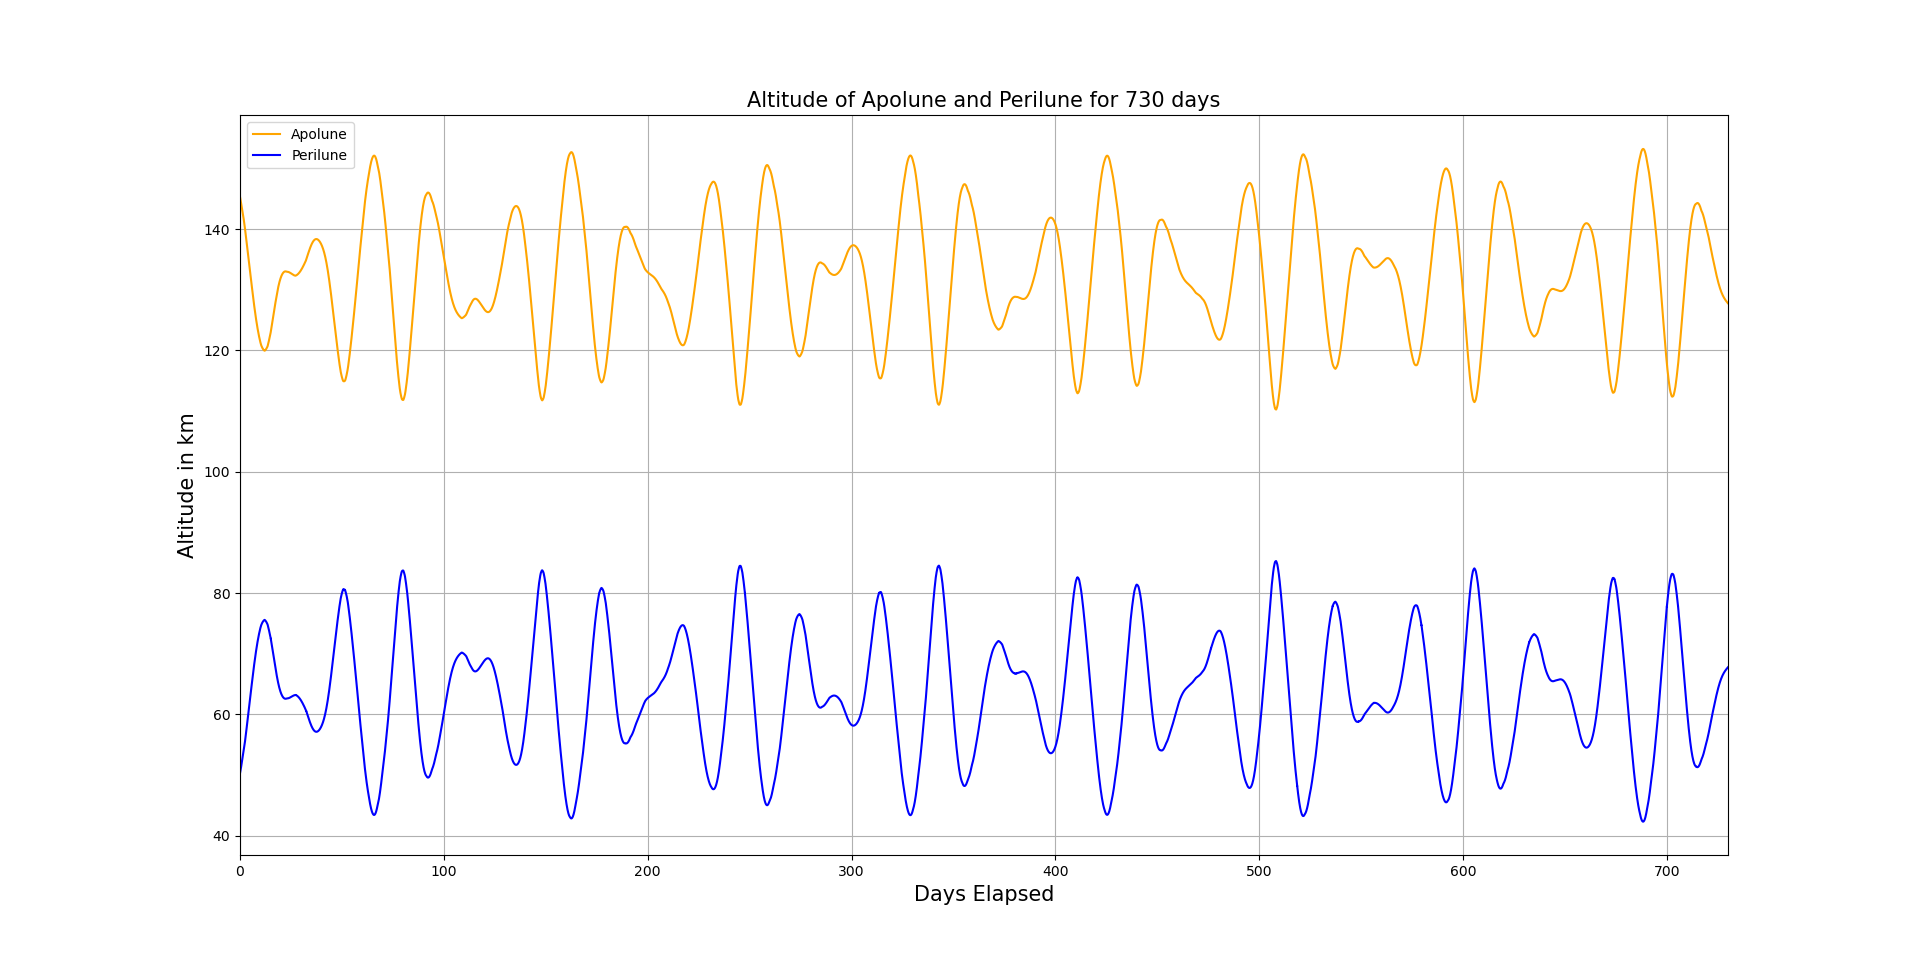
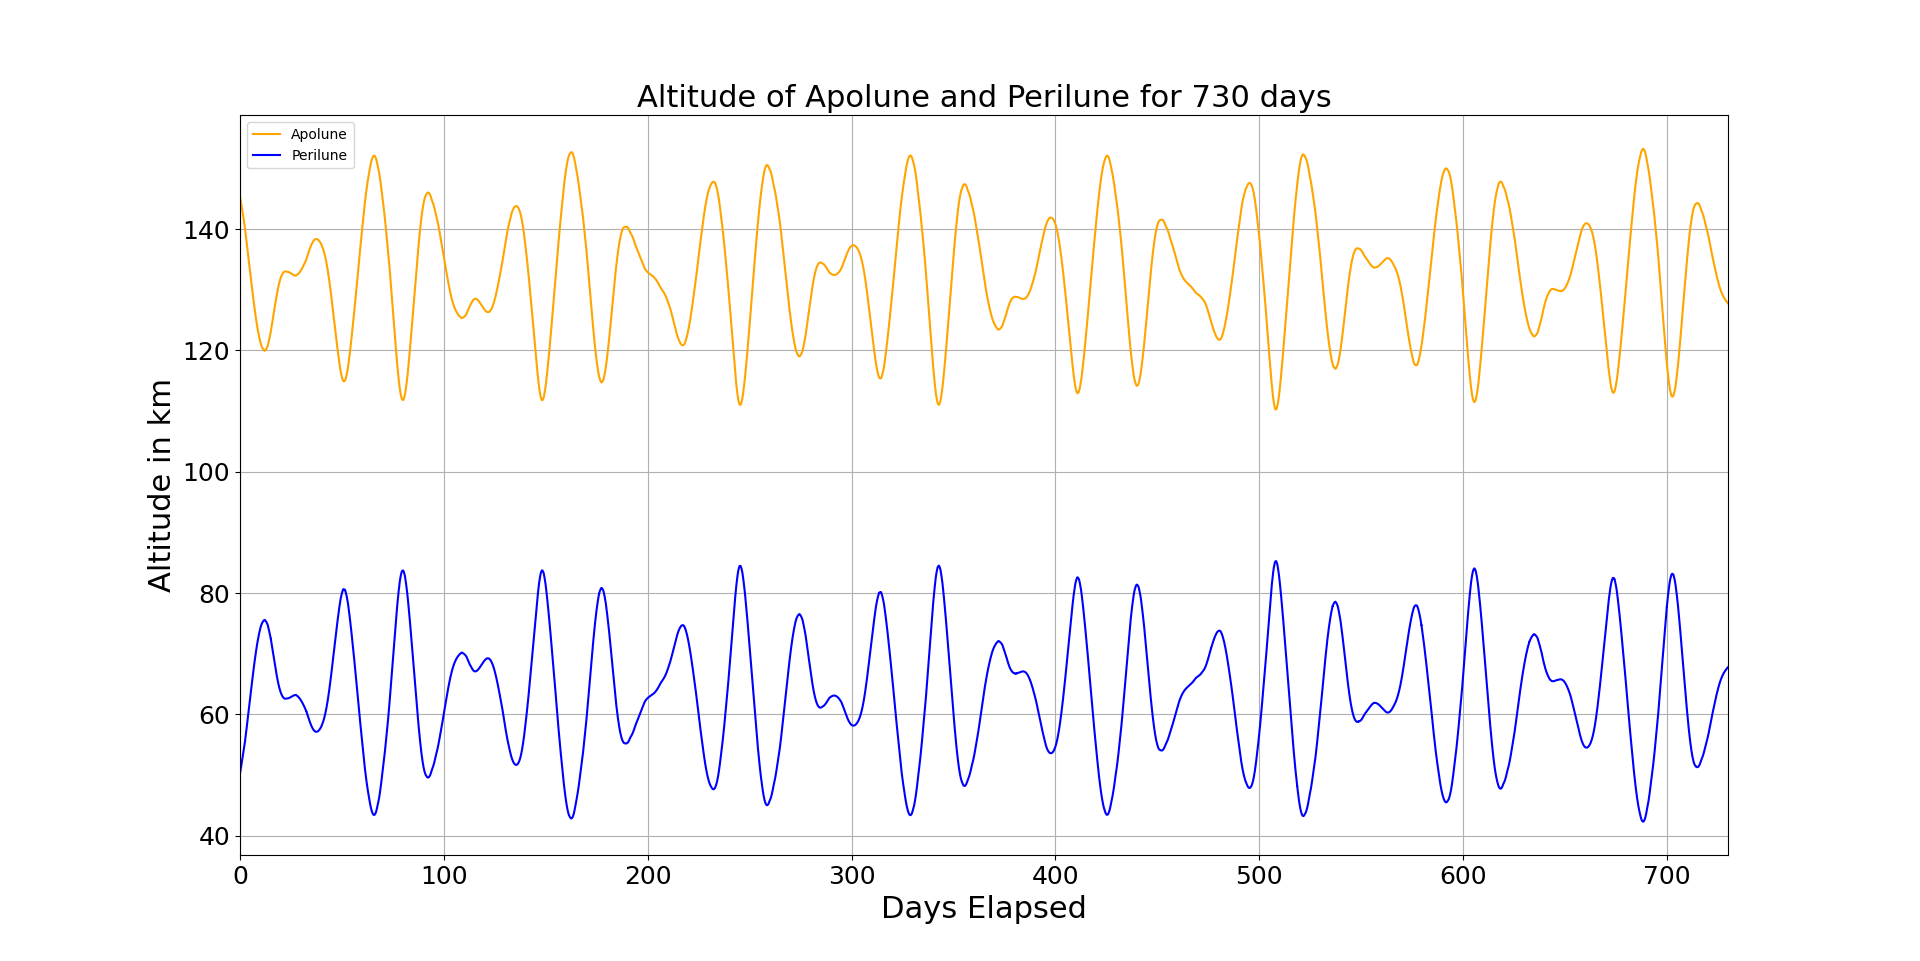
increased font size in plots in 730days folder

diff --git a/README.md b/README.md
@@ -1,0 +1,3 @@
+# Determining Lunar orbit for PRATUSH (Probing ReionizATion of the Universe using Signal from Hydrogen)
+
+1) "final_earth_quiet_cone" folder contains jupyter notebook containing codes required to generate the images in Chapter 3.
